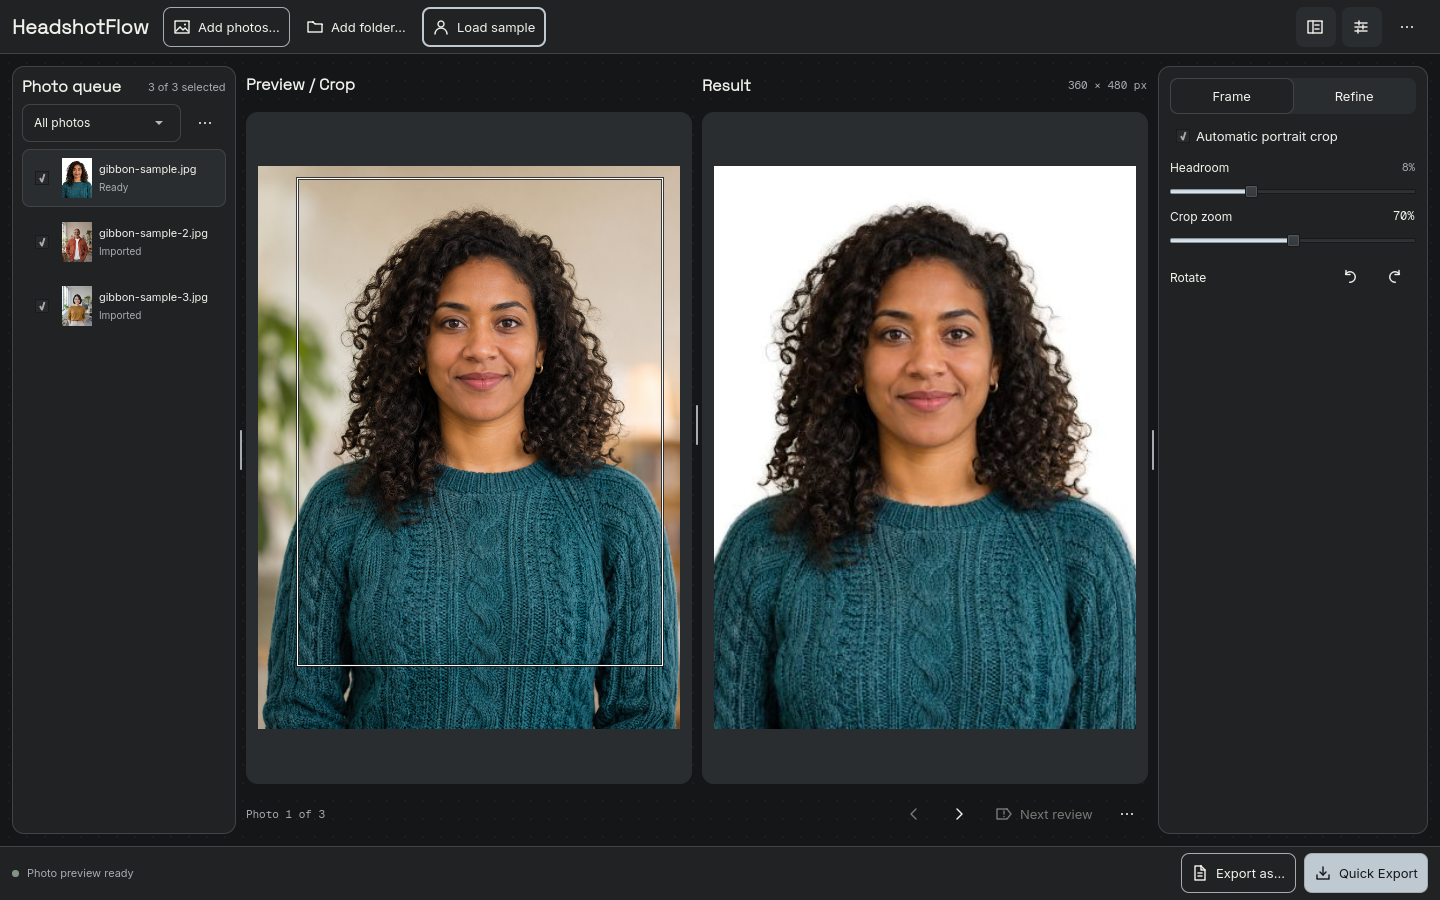
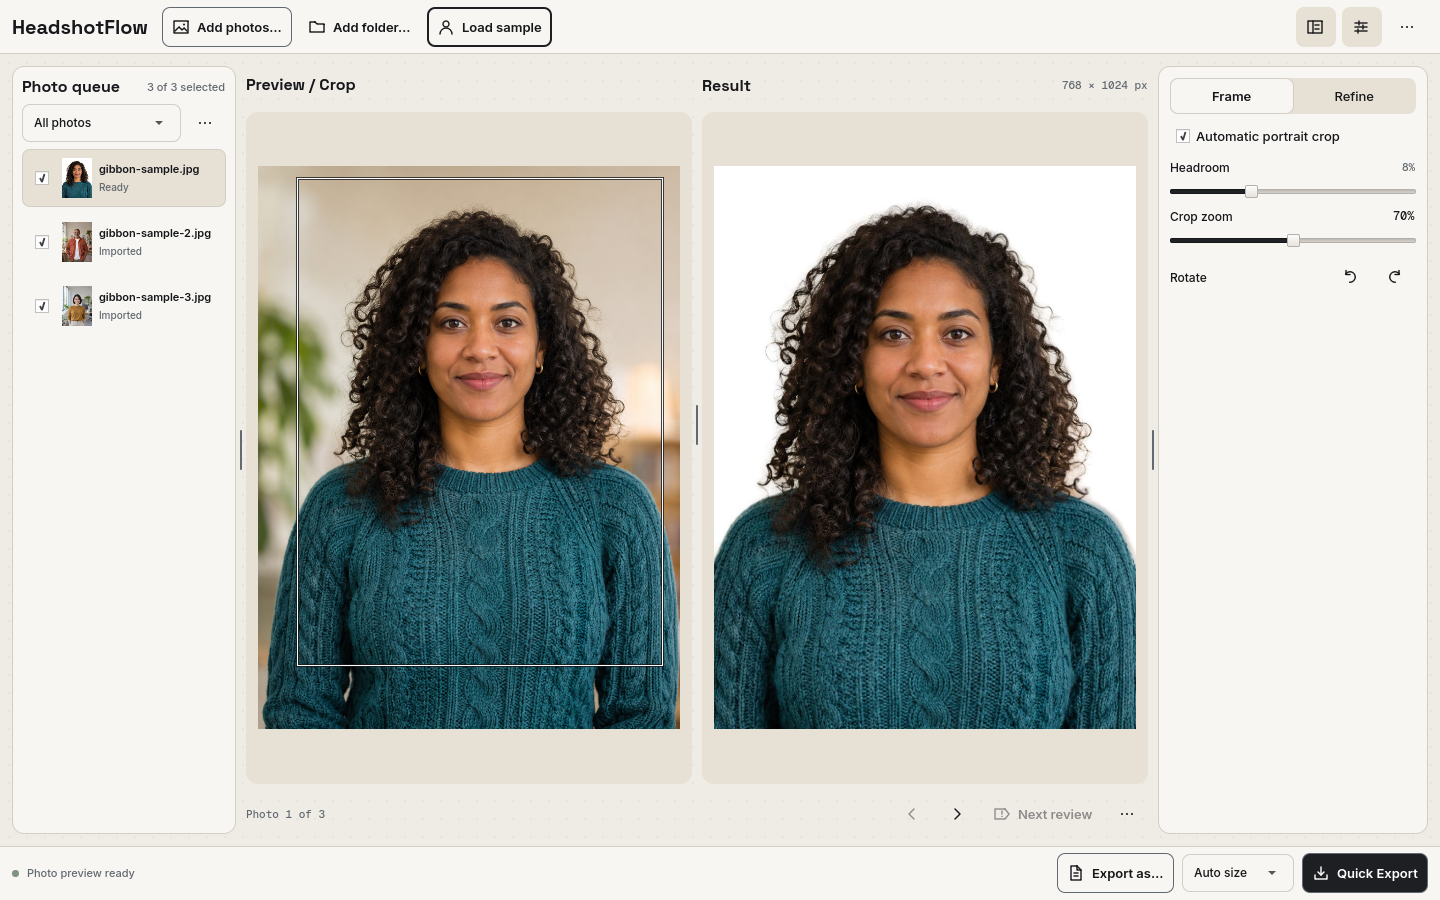
feat: add Quick Export sizes and a 1024 px default

diff --git a/qml/ExportDialog.qml b/qml/ExportDialog.qml
@@ -11,6 +11,7 @@ Dialog {
     property string scope: "current"
     property bool mixed: false
     property int sizeMode: 0
+    property int quickHeight: 0
     property url archiveToReplace
     property var style: ({})
     property var defaults: ({})
@@ -32,14 +33,15 @@ Dialog {
     readonly property string validation: !visible || perPhoto ? "" : controller.exportStyleError(style)
     readonly property var scopes: ["current", "checked", "zip"]
 
-    function begin(quick: bool, initialScope = "") {
+    function begin(quick: bool, initialScope = "", heightOverride = 0) {
         if (controller.busy || controller.current < 0)
             return
-        if (quick && controller.quickExport())
+        if (quick && controller.quickExport(heightOverride))
             return
         defaults = controller.exportOptions(quick)
         scope = initialScope || defaults.scope
         mixed = initialScope ? scope !== "current" : defaults.mixed
+        quickHeight = quick ? heightOverride : 0
         style = defaults.style
         sizeMode = sizeIndex()
         notice = defaults.notice
@@ -60,8 +62,9 @@ Dialog {
         error = ""
     }
     function sizeIndex(): int {
-        if (style.capped && (style.width === 0 || style.width === 360))
+        if (style.capped && (style.width === 0 || style.width === 768))
             return 0
+        if (style.width === 360) return 5
         if (!style.capped) {
             if (style.width === 0) return 1
             if (style.width === 720) return 2
@@ -71,7 +74,7 @@ Dialog {
     }
     function changeSize(row: int) {
         sizeMode = row
-        const requested = [360, 0, 720, 1080, 600][row]
+        const requested = [768, 0, 720, 1080, 600, 360][row]
         edit({ capped: row === 0, width: requested, height: requested / 3 * 4 })
     }
     function chooseDestination() {
@@ -86,7 +89,8 @@ Dialog {
         }
     }
     function deliver(destination: url, confirmedReplacement: bool) {
-        if (controller.startExport({ scope: scope, mixed: perPhoto, style: style },
+        if (controller.startExport({ scope: scope, mixed: perPhoto, style: style,
+                                     sizeOverrideHeight: quickHeight },
                                    destination, confirmedReplacement)) {
             close()
         } else {
@@ -192,12 +196,12 @@ Dialog {
             spacing: 12
             GridLayout {
                 Layout.fillWidth: true
-                columns: dialog.perPhoto ? 1 : 2
+                columns: dialog.perPhoto || dialog.quickHeight ? 1 : 2
                 uniformCellWidths: true
                 columnSpacing: 18
                 rowSpacing: 8
                 FieldLabel { text: "Photos" }
-                FieldLabel { visible: !dialog.perPhoto; text: "Output size" }
+                FieldLabel { visible: !dialog.perPhoto && !dialog.quickHeight; text: "Output size" }
 
                 WorkspaceChoice {
                     Layout.fillWidth: true
@@ -218,12 +222,16 @@ Dialog {
                     objectName: "exportSize"
                     Layout.preferredWidth: 1
                     Accessible.name: "Output size"
-                    visible: !dialog.perPhoto
-                    model: ["Up to 360 × 480", "Source crop size", "Up to 720 × 960",
-                            "Up to 1080 × 1440", "Custom limit"]
+                    visible: !dialog.perPhoto && !dialog.quickHeight
+                    model: ["Up to 768 × 1024", "Source crop size", "Up to 720 × 960",
+                            "Up to 1080 × 1440", "Custom limit", "Up to 360 × 480"]
                     currentIndex: dialog.sizeMode
                     onActivated: dialog.changeSize(currentIndex)
                 }
+            }
+            FieldLabel {
+                visible: dialog.quickHeight > 0
+                text: "Quick Export size · Up to " + dialog.quickHeight + " px tall"
             }
             FieldLabel {
                 visible: dialog.scope === "checked" &&
@@ -241,7 +249,7 @@ Dialog {
                 onClicked: dialog.mixed = checked
             }
             RowLayout {
-                visible: !dialog.perPhoto && dialog.sizeMode === 4
+                visible: !dialog.perPhoto && !dialog.quickHeight && dialog.sizeMode === 4
                 Layout.fillWidth: true
                 FieldLabel { Layout.fillWidth: false; text: "Maximum width" }
                 Field {
@@ -331,7 +339,8 @@ Dialog {
                 Layout.fillWidth: true
                 color: dialog.muted
                 font.pixelSize: 12
-                text: dialog.perPhoto ? "This export uses the output settings already assigned to each photo."
+                text: dialog.perPhoto ? (dialog.quickHeight ? "Each photo keeps its other output settings."
+                                                            : "This export uses the output settings already assigned to each photo.")
                       : "Editor preview · " + (dialog.controller.settings.format === "png" ? "PNG" : "JPEG")
                         + (dialog.controller.result.width
                            ? " · " + dialog.controller.result.width + " × " + dialog.controller.result.height : "")
@@ -349,7 +358,7 @@ Dialog {
             objectName: "saveExportPreset"
             Layout.leftMargin: 18
             text: "Save preset…"
-            visible: !dialog.perPhoto
+            visible: !dialog.perPhoto && !dialog.quickHeight
             enabled: !dialog.validation
             onClicked: presetPicker.open()
         }

diff --git a/qml/Main.qml b/qml/Main.qml
@@ -742,12 +742,24 @@ ApplicationWindow {
                     color: muted; font.pixelSize: 11
                 }
                 Command { objectName: "exportAs"; text: "Export as…"; symbol: "exportAs"; enabled: hasPhoto&&!backend.busy; onClicked: exportDialog.begin(false) }
+                Choice {
+                    id: quickSize
+                    objectName: "quickExportSize"
+                    Layout.preferredWidth: 112
+                    enabled: hasPhoto && !backend.busy
+                    Accessible.name: "Quick Export size"
+                    Accessible.description: "Maximum height in pixels. Auto size uses the saved export or photo settings."
+                    readonly property var heights: [0, 480, 720, 1024, 1440]
+                    model: heights.map(height => height ? height + " px" : "Auto size")
+                    readonly property int selectedHeight: heights[currentIndex] || 0
+                    popup.y: -popup.height - 4
+                }
                 Command {
                     objectName: "quickExport"; text: "Quick Export"; symbol: "export"; primary: true
                     enabled: hasPhoto&&!backend.busy
                     hint: backend.quickExportDescription
                     Accessible.description: hint
-                    onClicked: exportDialog.begin(true)
+                    onClicked: exportDialog.begin(true, "", quickSize.selectedHeight)
                 }
             }
         }

diff --git a/src/controller.cpp b/src/controller.cpp
@@ -686,12 +686,13 @@ bool Controller::archiveExists(const QUrl &destination) const {
     const QFileInfo info(destination.toLocalFile());
     return info.exists() || info.isSymLink();
 }
-bool Controller::quickExport() {
+bool Controller::quickExport(int height) {
     if (working || index < 0 || exportHistory.isEmpty())
         return false;
-    const auto options = exportOptions(true);
+    auto options = exportOptions(true);
     if (!options.value("notice").toString().isEmpty())
         return false;
+    options["sizeOverrideHeight"] = height;
     return startExport(options, QUrl::fromLocalFile(exportHistory.value("destination").toString()));
 }
 bool Controller::startExport(const QVariantMap &options, const QUrl &destination, bool replaceArchive) {
@@ -731,6 +732,11 @@ bool Controller::startExportRequest(const QVariantMap &options, const QUrl &dest
         }
     }
     const bool mixed = scope != "current" && options.value("mixed").toBool();
+    const auto height = options.value("sizeOverrideHeight", 0).toInt();
+    if (height < 0 || height > 80000 || height % 4 != 0) {
+        fail("Choose a valid 3:4 output size");
+        return false;
+    }
     QVariantMap style;
     try {
         style = mixed ? outputStyle(queue[index].settings) :
@@ -740,6 +746,7 @@ bool Controller::startExportRequest(const QVariantMap &options, const QUrl &dest
         return false;
     }
     QVariantMap request = {{"scope", scope}, {"mixed", mixed}, {"style", style},
+                           {"sizeOverrideHeight", height},
                            {"destination", info.absoluteFilePath()},
                            {"folder", zip ? exportHistory.value("folder") : info.absoluteFilePath()}};
     processMany(rows, request, replaceArchive, createFolder);
@@ -785,6 +792,7 @@ void Controller::processMany(QVector<int> rows, const QVariantMap &exportRequest
                                  exportRequest.value("destination").toString());
         if (result.exported && !exportRequest.isEmpty()) {
             exportHistory = exportRequest;
+            exportHistory.remove("sizeOverrideHeight");
             QSettings().setValue("exportHistory", exportHistory);
             presetOutputPending = false;
         }
@@ -796,6 +804,7 @@ void Controller::processMany(QVector<int> rows, const QVariantMap &exportRequest
       try {
         const bool sharedStyle = !exportRequest.isEmpty() && !exportRequest.value("mixed").toBool();
         const auto style = exportRequest.value("style").toMap();
+        const auto height = exportRequest.value("sizeOverrideHeight").toInt();
         const auto sharedSettings = readOutputStyle(style);
         if (exportFiles && !zip && !createFolder && !QFileInfo(directory).isDir())
             throw std::runtime_error("The chosen output folder is no longer available");
@@ -821,8 +830,14 @@ void Controller::processMany(QVector<int> rows, const QVariantMap &exportRequest
             const auto &q = snapshot[row];
             try {
                 auto settings = q.settings;
-                const bool matchesPreview = !sharedStyle || style == outputStyle(settings);
                 if (sharedStyle) applyOutputStyle(settings, sharedSettings);
+                if (height > 0) {
+                    settings.capped = false;
+                    settings.height = height;
+                    settings.width = height / 4 * 3;
+                }
+                const bool matchesPreview = (!sharedStyle && height == 0) ||
+                                            outputStyle(settings) == outputStyle(q.settings);
                 auto r = engine.process(q.path, settings, &cancelled, progressCallback(token, photo, rows.size()));
                 QString output;
                 if (r.review)

diff --git a/tests/core_tests.cpp b/tests/core_tests.cpp
@@ -383,7 +383,7 @@ class CoreTests : public QObject {
         engine.setDevice("cpu");
         const auto original = engine.process(sample, s);
         QVERIFY2(original.warnings.isEmpty(), qPrintable(original.warnings.join("; ")));
-        QCOMPARE(original.outputSize, QSize(360, 480));
+        QCOMPARE(original.outputSize, QSize(768, 1024));
         for (const auto &detail : {"face", "head · fast"})
             QVERIFY(std::any_of(original.timings.cbegin(), original.timings.cend(),
                                 [detail](const auto &timing) {
@@ -409,11 +409,12 @@ class CoreTests : public QObject {
             const Settings settings;
             const auto result = engine.process(path, settings);
             QVERIFY2(!result.review, qPrintable(path + " " + result.warnings.join(", ")));
-            QCOMPARE(result.outputSize, QSize(360, 480));
+            QCOMPARE(result.outputSize.width() * 4, result.outputSize.height() * 3);
+            QVERIFY(result.outputSize.height() <= 1024);
             const auto output = Engine::save(result, path, dir.path(), settings);
-            QCOMPARE(QImage(output).size(), QSize(360, 480));
+            QCOMPARE(QImage(output).size(), result.outputSize);
             QVERIFY(result.mask.pixelColor(0, 0).red() < 10);
-            QVERIFY(result.mask.pixelColor(180, 200).red() > 245);
+            QVERIFY(result.mask.pixelColor(result.mask.width() / 2, result.mask.height() * 5 / 12).red() > 245);
         }
     }
     void lightweightMaskRefinement() {
@@ -475,7 +476,9 @@ class CoreTests : public QObject {
     }
     void dimensions() {
         Settings s;
-        QCOMPARE(Engine::outputSize({4000, 6000}, s), QSize(360, 480));
+        QCOMPARE(Engine::outputSize({4000, 6000}, s), QSize(768, 1024));
+        const auto saved = Settings::fromJson({{"width", 360}, {"height", 480}, {"capped", true}});
+        QCOMPARE(Engine::outputSize({4000, 6000}, saved), QSize(360, 480));
         QCOMPARE(Engine::outputSize({100, 150}, s), QSize(99, 132));
         s.capped = false;
         s.width = s.height = 0;
@@ -531,7 +534,7 @@ class CoreTests : public QObject {
         s.background = "off";
         Engine engine;
         auto r = engine.process(input, s);
-        QCOMPARE(r.outputSize, QSize(360, 480));
+        QCOMPARE(r.outputSize, QSize(600, 800));
         QVERIFY(!r.review);
         QCOMPARE(r.preview, QImage::fromData(r.encoded));
         QVERIFY(r.preview.colorSpace().isValid());
@@ -593,7 +596,7 @@ class CoreTests : public QObject {
         s.background = "fast";
         s.format = "png";
         r = e.process(path, s);
-        QCOMPARE(r.outputSize, QSize(360, 480));
+        QCOMPARE(r.outputSize, QSize(600, 800));
     }
 };
 QTEST_GUILESS_MAIN(CoreTests)

diff --git a/tests/export_tests.cpp b/tests/export_tests.cpp
@@ -89,7 +89,7 @@ class ExportTests : public QObject {
         QVERIFY(c.startExport(options, local(dir.path()), false));
         QTRY_VERIFY_WITH_TIMEOUT(!c.busy(), 15000);
         QVERIFY(c.result().value("review").toBool());
-        QCOMPARE(c.result().value("width").toInt(), 360);
+        QCOMPARE(c.result().value("width").toInt(), 600);
         QVERIFY(!QFileInfo::exists(dir.filePath("portrait-pfp.jpg")));
         c.approve();
         QVERIFY(c.settings().value("approved").toBool());
@@ -230,6 +230,11 @@ class ExportTests : public QObject {
         QVERIFY(c.quickExport());
         QTRY_VERIFY_WITH_TIMEOUT(!c.busy(), 15000);
         QVERIFY(root.exists("mixed/second-pfp-1.png"));
+        const auto originalSettings = c.settings();
+        QVERIFY(c.quickExport(480));
+        QTRY_VERIFY_WITH_TIMEOUT(!c.busy(), 15000);
+        QCOMPARE(QImageReader(dir.filePath("mixed/second-pfp-2.png")).size(), QSize(360, 480));
+        QCOMPARE(c.settings(), originalSettings);
         QVERIFY(!root.exists("mixed/first-pfp-1.jpg"));
         auto loadedStyle = c.exportOptions(false).value("style").toMap();
         loadedStyle["prefix"] = "changed-";
@@ -294,6 +299,14 @@ class ExportTests : public QObject {
         auto *modal = window->findChild<QObject *>("exportDialog");
         QVERIFY(quick);
         QVERIFY(modal);
+        auto *quickSize = window->findChild<QObject *>("quickExportSize");
+        QVERIFY(quickSize && quickSize->setProperty("currentIndex", 2));
+        QVERIFY(QMetaObject::invokeMethod(quick, "clicked"));
+        QTRY_VERIFY(modal->property("visible").toBool());
+        QCOMPARE(modal->property("quickHeight").toInt(), 720);
+        QVERIFY(QMetaObject::invokeMethod(modal, "close"));
+        QTRY_VERIFY(!modal->property("visible").toBool());
+        QVERIFY(quickSize->setProperty("currentIndex", 0));
         QVERIFY(QMetaObject::invokeMethod(quick, "clicked"));
         QTRY_VERIFY(modal->property("visible").toBool());
         QCOMPARE(modal->property("scope").toString(), "current");

diff --git a/tests/controller_tests.cpp b/tests/controller_tests.cpp
@@ -822,7 +822,7 @@ class ControllerTests : public QObject {
         QVERIFY(sampleExport.isValid());
         c.exportCurrent(QUrl::fromLocalFile(sampleExport.path()));
         QTRY_VERIFY_WITH_TIMEOUT(!c.busy(), 15000);
-        QCOMPARE(QImage(sampleExport.filePath("gibbon-sample-pfp.jpg")).size(), QSize(360, 480));
+        QCOMPARE(QImage(sampleExport.filePath("gibbon-sample-pfp.jpg")).size(), QSize(768, 1024));
         c.set("background", "quality");
         c.preview();
         QVERIFY(c.qualityConfirmationPending());
@@ -1573,8 +1573,8 @@ class ControllerTests : public QObject {
         QVERIFY(!c.queue[0].selected);
         QCOMPARE(Controller::sourceFingerprint(legacy), previous);
         QVERIFY(Controller::sourceFingerprint(third) != conflict);
-        QCOMPARE(c.result()["width"].toInt(), 360);
-        QCOMPARE(c.result()["height"].toInt(), 480);
+        QCOMPARE(c.result()["width"].toInt(), 768);
+        QCOMPARE(c.result()["height"].toInt(), 1024);
 
         auto thumbnail = [&](int row) {
             const QUrl url(c.items()[row].toMap()["thumb"].toString());

diff --git a/src/settings.h b/src/settings.h
@@ -7,11 +7,13 @@
 
 namespace gibbon {
 struct Settings {
+    static constexpr int defaultHeight = 1024;
+    static constexpr int defaultWidth = defaultHeight / 4 * 3;
     bool autoCrop = true, capped = true, automatic = false, approved = false;
     bool sharpenScreen = true;
     QString sharpening = "standard";
     QRectF cropBasis; // Initial framing used as the 100% zoom baseline.
-    int width = 360, height = 480, quality = 80, rotation = 0;
+    int width = defaultWidth, height = defaultHeight, quality = 80, rotation = 0;
     double cropZoom = 70; // Requested percentage, preserved when headroom changes.
     double headroom = .08, brightness = 0, feather = 0;
     QString background = "fast", format = "jpeg", reference, prefix;

diff --git a/src/main.cpp b/src/main.cpp
@@ -106,7 +106,7 @@ int main(int argc, char **argv) {
     p.addOptions({{{"o", "output"}, "Output folder", "directory"},
                   {"preset", "JSON settings preset", "file"},
                   {"size", "Exact 3:4 dimensions, e.g. 720x960", "WxH"},
-                  {"uncapped", "Remove 360x480 limit; use source crop size unless --size is set"},
+                  {"uncapped", "Remove 768x1024 limit; use source crop size unless --size is set"},
                   {"no-auto-crop", "Use centered 3:4 framing"},
                   {"fully-automatic", "Export uncertain crops using documented fallbacks"},
                   {"headroom", "Headroom percentage (0–25)", "percent"},

diff --git a/scripts/test_cli.py b/scripts/test_cli.py
@@ -76,7 +76,7 @@ def main():
         assert not list((root / 'out').glob('*'))
         run('process', photo, '--output', root / 'out', '--fully-automatic', '--format', 'png')
         first = next((root / 'out').glob('*.png'))
-        assert struct.unpack('!II', first.read_bytes()[16:24]) == (360, 480)
+        assert struct.unpack('!II', first.read_bytes()[16:24]) == (600, 800)
         run('process', photo, '--output', root / 'out', '--fully-automatic', '--format', 'png')
         assert len(list((root / 'out').glob('*.png'))) == 2
         run('process', photo, '--output', root / 'source', '--no-auto-crop', '--uncapped', '--format', 'png')

diff --git a/src/controller.h b/src/controller.h
@@ -124,7 +124,7 @@ class Controller : public QObject {
     Q_INVOKABLE QVariantMap exportOptions(bool quick) const;
     Q_INVOKABLE QString exportStyleError(const QVariantMap &style) const;
     Q_INVOKABLE bool archiveExists(const QUrl &destination) const;
-    Q_INVOKABLE bool quickExport();
+    Q_INVOKABLE bool quickExport(int height = 0);
     Q_INVOKABLE bool startExport(const QVariantMap &options, const QUrl &destination,
                                  bool replaceArchive = false);
     Q_INVOKABLE void cancel();

diff --git a/src/engine.cpp b/src/engine.cpp
@@ -301,7 +301,7 @@ cv::Mat Engine::sharpenForScreen(const cv::Mat &rgb, const cv::Mat &alpha, const
 QSize Engine::outputSize(QSize crop, const Settings &s) {
     int units = std::min(crop.width() / 3, crop.height() / 4);
     if (s.capped)
-        units = std::min(units, 120);
+        units = std::min(units, Settings::defaultHeight / 4);
     if (s.width > 0)
         units = std::min(units, s.width / 3);
     if (units < 1)

diff --git a/benchmarks/runner.cpp b/benchmarks/runner.cpp
@@ -68,6 +68,8 @@ int main(int argc, char **argv) {
             painter.drawText(col * 360 + 8, 25, QStringList{"Source", "Mask", "Black", "White"}[col]);
         Engine engine;
         Settings settings;
+        settings.width = 360;
+        settings.height = 480;
         settings.background = mode;
         settings.format = "png";
         settings.cropZoom = 65;
